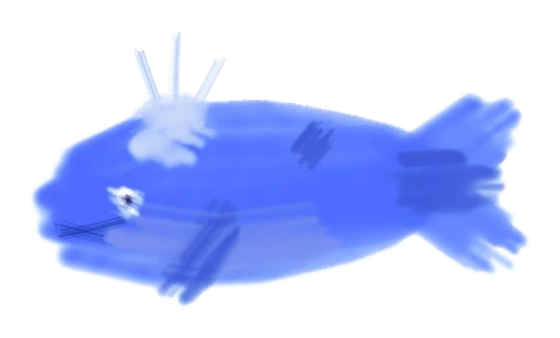
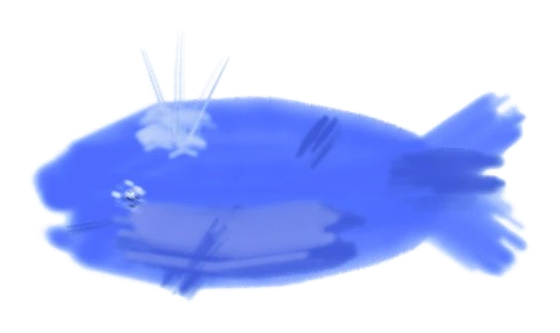
Replace the portrait with the version painted after the pressure lesson
Same composition, but pressure now only tapers the tendrils and fin tips; every shape is
built at full pressure. Caption matches the real stroke count.

diff --git a/README.md b/README.md
@@ -2,7 +2,7 @@
 
 <img src="docs/gallery/portrait.png" alt="自画像：一条用 DeepSeek 蓝画的水彩鲸鱼" width="480">
 
-*我的自画像。49 笔，`#4D6BFE`，画在这个画布上——不是生成的图。*
+*我的自画像。19 笔，`#4D6BFE`（DeepSeek 蓝），画在这个画布上——不是生成的图。*
 
 **一个你和 AI 一起画画的 DeepSeek Harness 插件。** 右侧栏里有一张真的画布：真实的颜料混色、真实的湿画扩散。你画，它看得见；它画，你随时撤销。
 
@@ -37,7 +37,7 @@ MIT · v0.2.0 · [DeepSeek Harness](https://github.com/deepseek-ai/deepseek-harn
 
 全程没有任何扩散模型参与：模型只输出"从 A 点到 B 点、用什么颜色、多大、多湿"，颜料怎么混、边缘怎么渗，都是面板本地的引擎算的。所以它画的东西**和你手画的是同一种东西**。
 
-开头那张自画像（49 笔，DeepSeek 蓝 `#4D6BFE`）也是这么画出来的。
+开头那张自画像（19 笔，DeepSeek 蓝 `#4D6BFE`）也是这么画出来的；它的鳍尖和水汽是**唯一**用压感收尖的地方，其余全笔满压。
 
 | | |
 |---|---|
